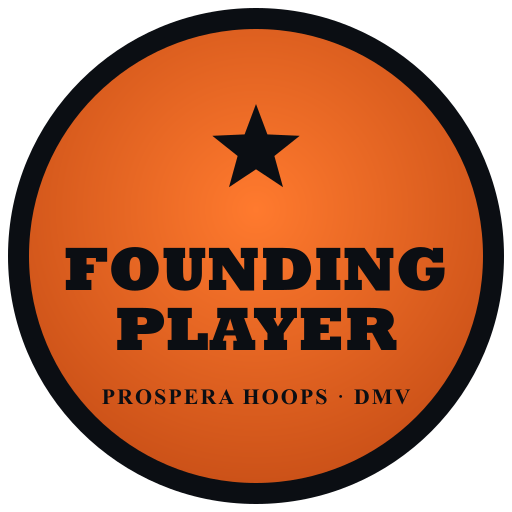
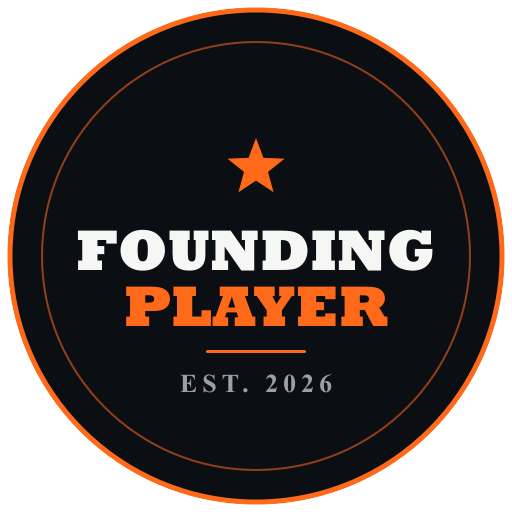
Launch assets v2: premium redesign + 'Proof over hype.' brand line
Redesign pass — more official, attention-grabbing, on-brand:
- announce: 'PROOF OVER HYPE.' hero, eyebrow chip, accent rule, 'LIVE WEDNESDAY'
  pill, bar-ramp motif + glow/vignette for depth
- flyer: QR framed with orange corner brackets, 'TRACK IT. PROVE IT. GET RECRUITED.'
  chip, cleaner hierarchy
- founding-player-badge: double-ring official seal, star, EST. 2026
- shared design system (gradient bg, glow, vignette, chip/pill/rule/cluster helpers);
  fixed pill width math so text never clips

Tagline system locked in the playbook: hook 'Proof over hype.', CTA 'Track it. Prove
it. Get recruited.', descriptor 'scouting system of record'. Bios lead with the hook.
Player paid tier noted for the roadmap (memory).

diff --git a/docs/launch-marketing.md b/docs/launch-marketing.md
@@ -9,6 +9,15 @@ use yet, so nobody squats it).
 
 ---
 
+## 0. Brand lines (taglines)
+
+- **Hook (sticky, goes everywhere):** **"Proof over hype."** — short, memorable, and it *is* the
+  differentiator (real stats vs. every hype recruiting account).
+- **CTA (player action):** **"Track it. Prove it. Get recruited."** — the loop, dead clear.
+- **Descriptor (credibility, for coaches/parents/SEO):** "The DMV's basketball scouting system of record."
+
+Lead with the **hook**, support with the **descriptor**, close with the **CTA**.
+
 ## 1. Account bios
 
 **Register:** professional / authority — not a hype account. Emojis are *functional accents only*
@@ -17,24 +26,24 @@ Zero emoji where the audience is parents (Facebook) or off-platform (site/email/
 
 ### Instagram (primary — clips, cards, players live here)
 ```
-The DMV's basketball scouting system of record.
-DC · MD · VA — high school & AAU stats, profiles & film.
-Real numbers. Honest evaluation. 🏀
-Claim your free profile ↓
+Proof over hype. 🏀
+The DMV's basketball scouting system of record — DC · MD · VA, HS & AAU.
+Real stats. Honest evals. Your recruiting home, free.
+Claim yours ↓
 ```
 Link: `prosperahoops.com`  ·  Category: *Sports* / *Sports League*  ·  Name field: `Prospera Hoops · DMV Basketball`
 
 ### X / Twitter (recruiting news, commitments, coaches)
 ```
-The scouting system of record for DMV basketball. DC/MD/VA high school & AAU — real stats,
-honest evaluation, shareable recruiting profiles. Players: claim yours free ↓
+Proof over hype. The scouting system of record for DMV basketball — DC/MD/VA, HS & AAU.
+Real stats, honest evals, shareable recruiting profiles. Players: claim yours free ↓
 ```
 Link: `prosperahoops.com`  ·  Location: `DC · MD · VA`
 
 ### TikTok (fastest organic growth — game highlights)
 ```
-DMV basketball, tracked.
-Stats · profiles · film.
+Proof over hype.
+DMV basketball, tracked — stats · profiles · film.
 Claim your free profile ↓
 ```
 Link: `prosperahoops.com`
